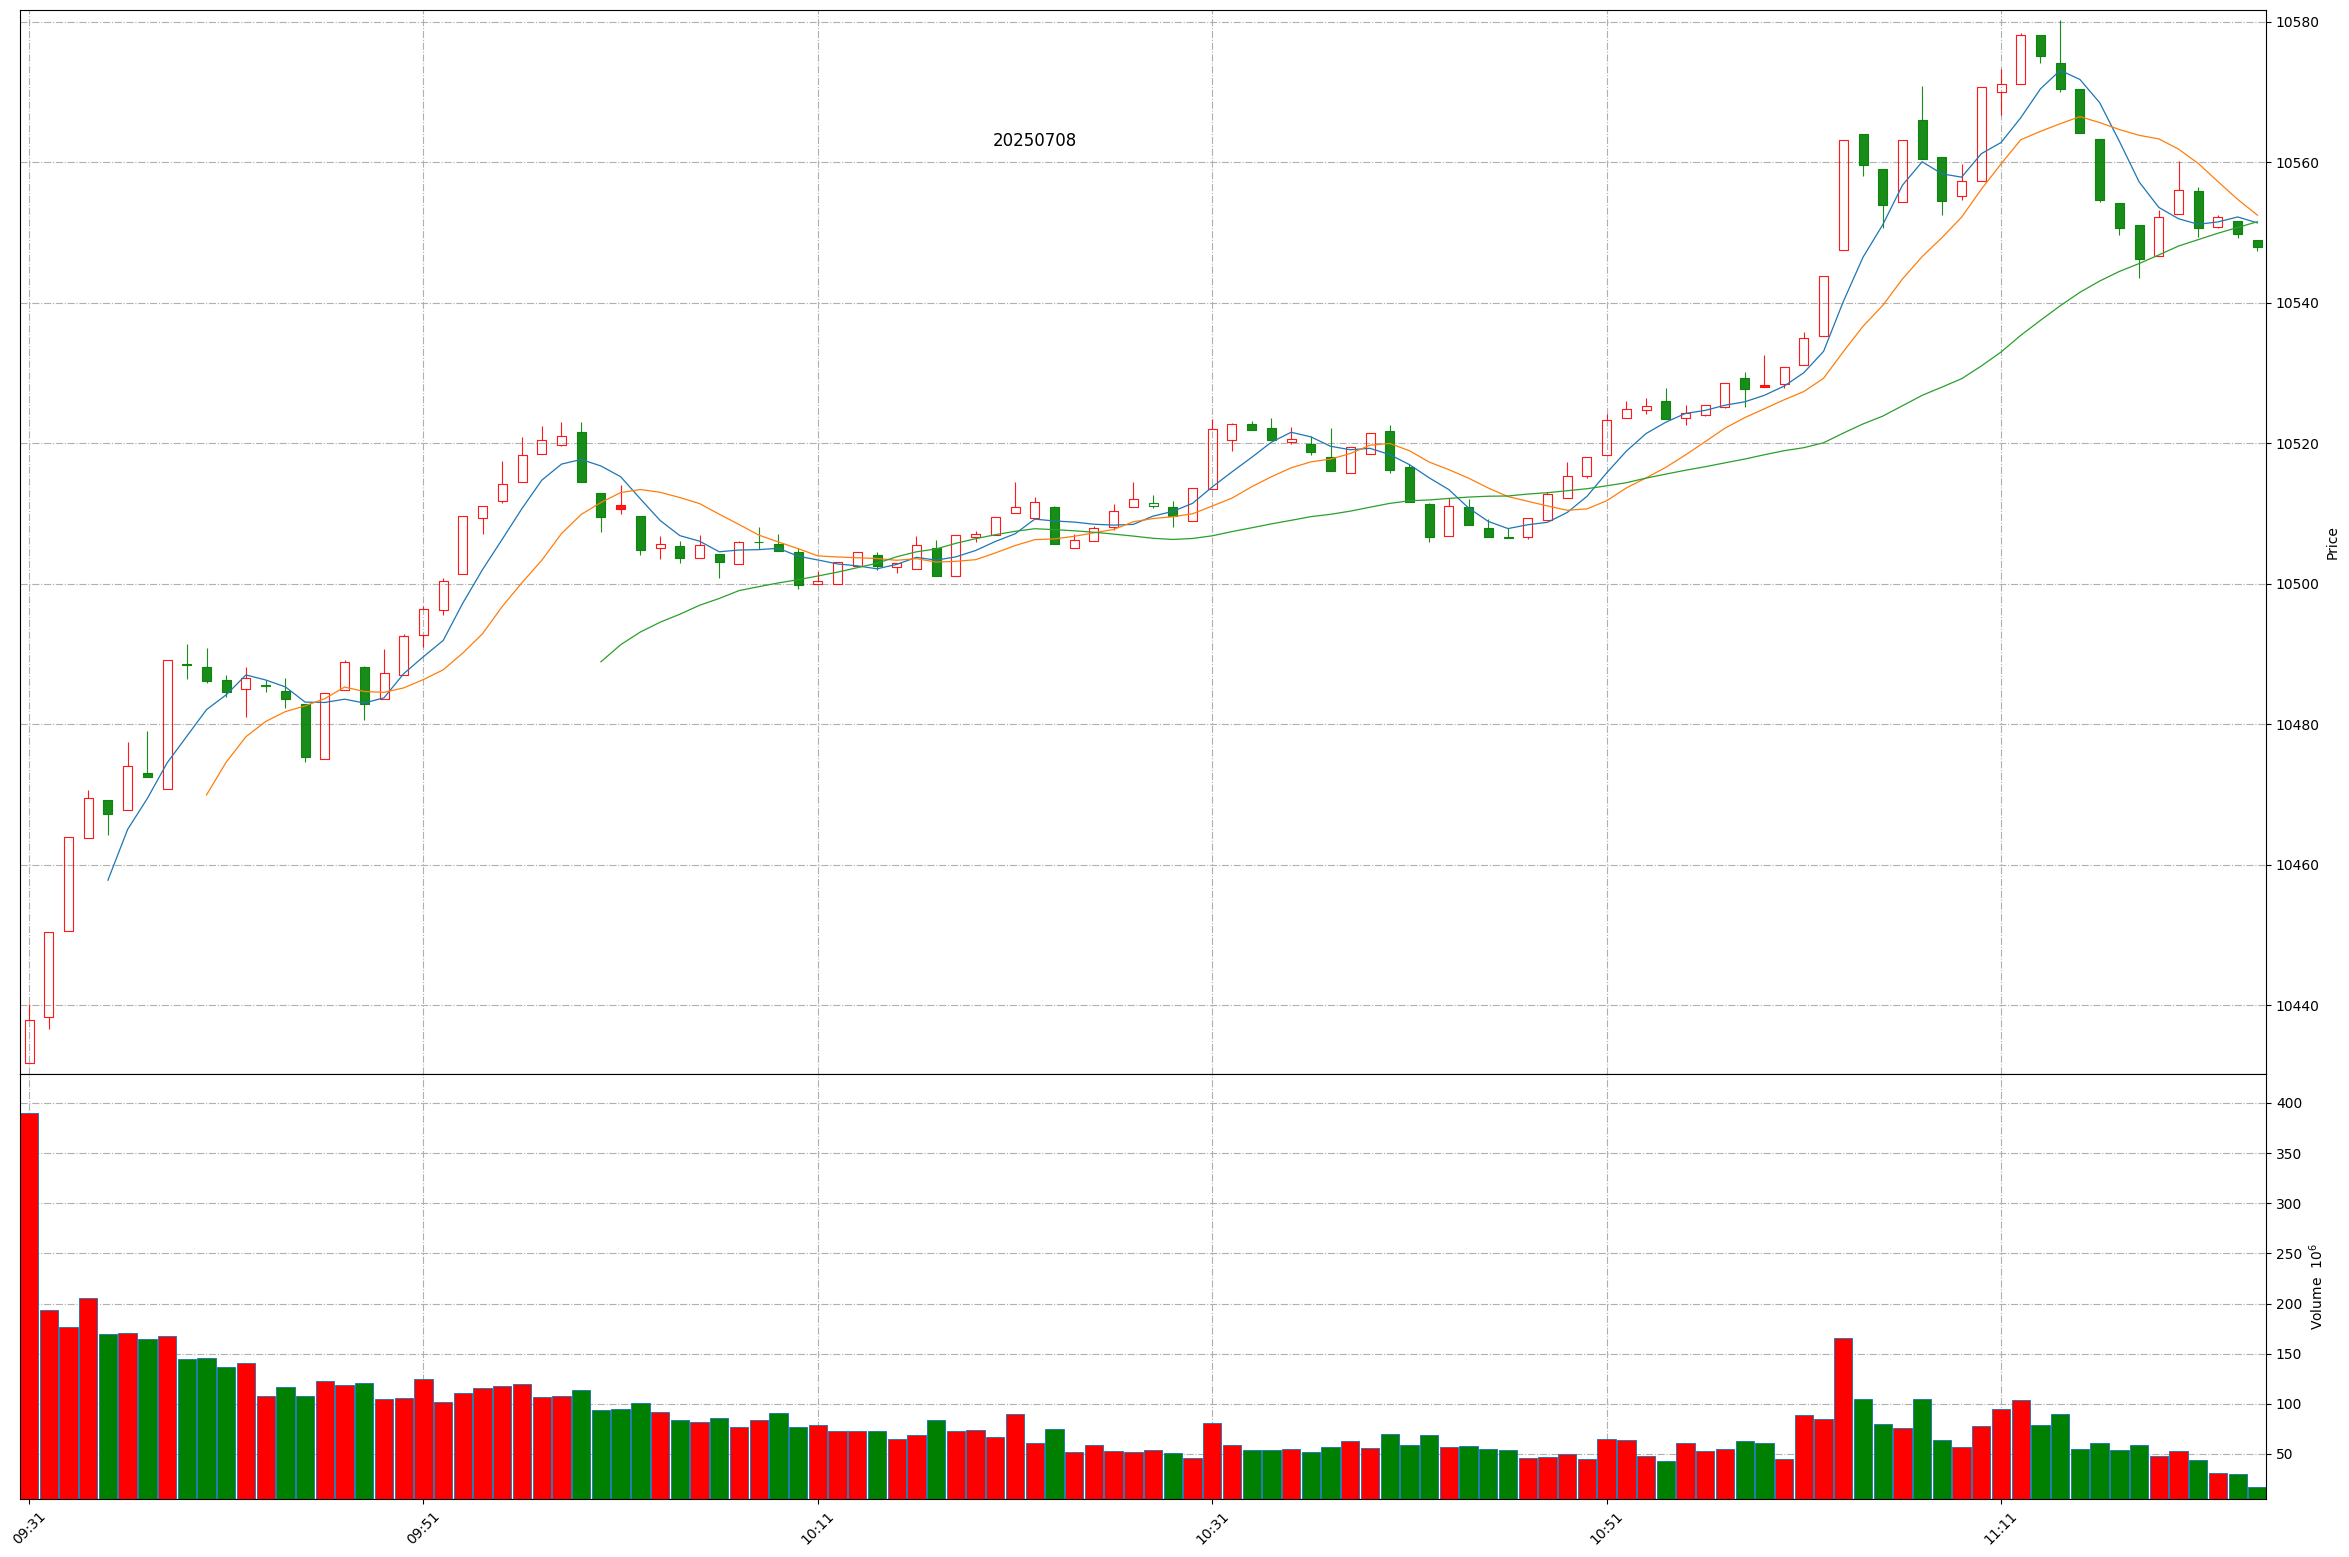
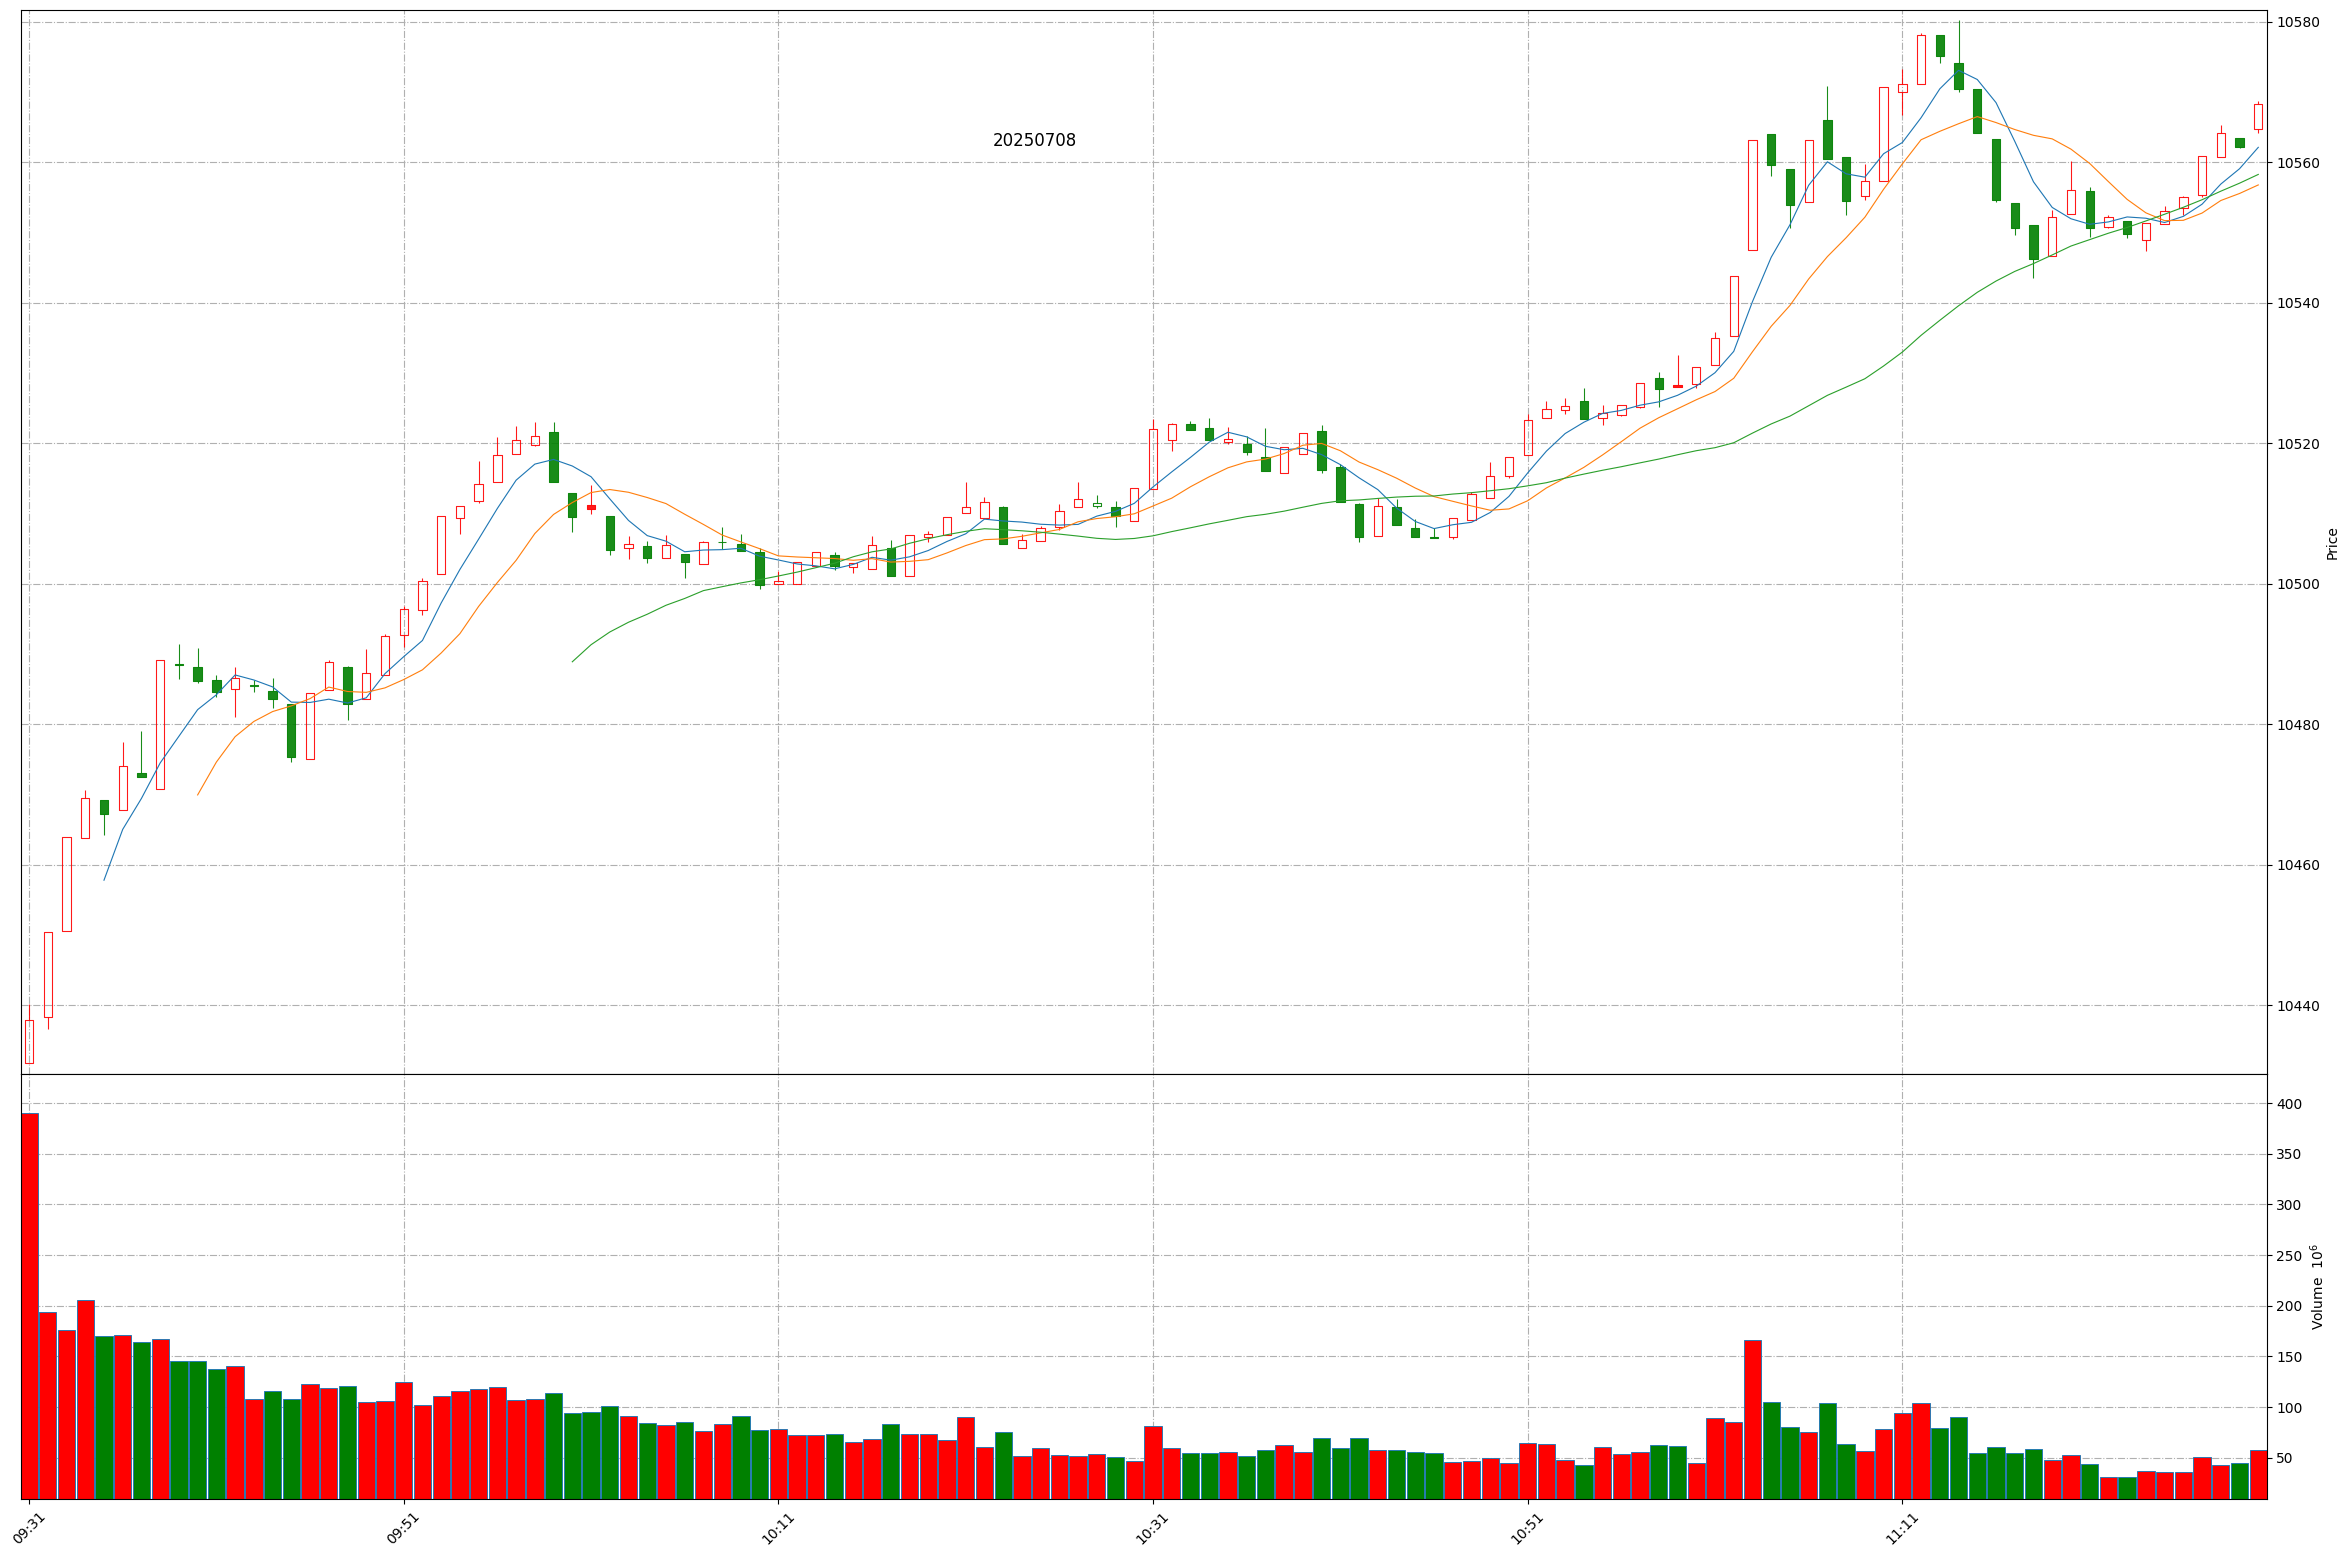
Github action update at 2025-07-08 11:32:18.

diff --git a/README.md b/README.md
@@ -1,11 +1,11 @@
 
 # Daily-A-share-market-quotes 每日 A 股指数（5min 更新）- 20250708
 
-### 上证指数 20250708 11:23
+### 上证指数 20250708 11:32
 ![](./fig/2025/7/20250708-sh000001.png)
 
-### 深证成指 20250708 11:23
+### 深证成指 20250708 11:32
 ![](./fig/2025/7/20250708-sz399001.png)
 
-### 北证50 20250708 11:23
+### 北证50 20250708 11:32
 ![](./fig/2025/7/20250708-bj899050.png)
